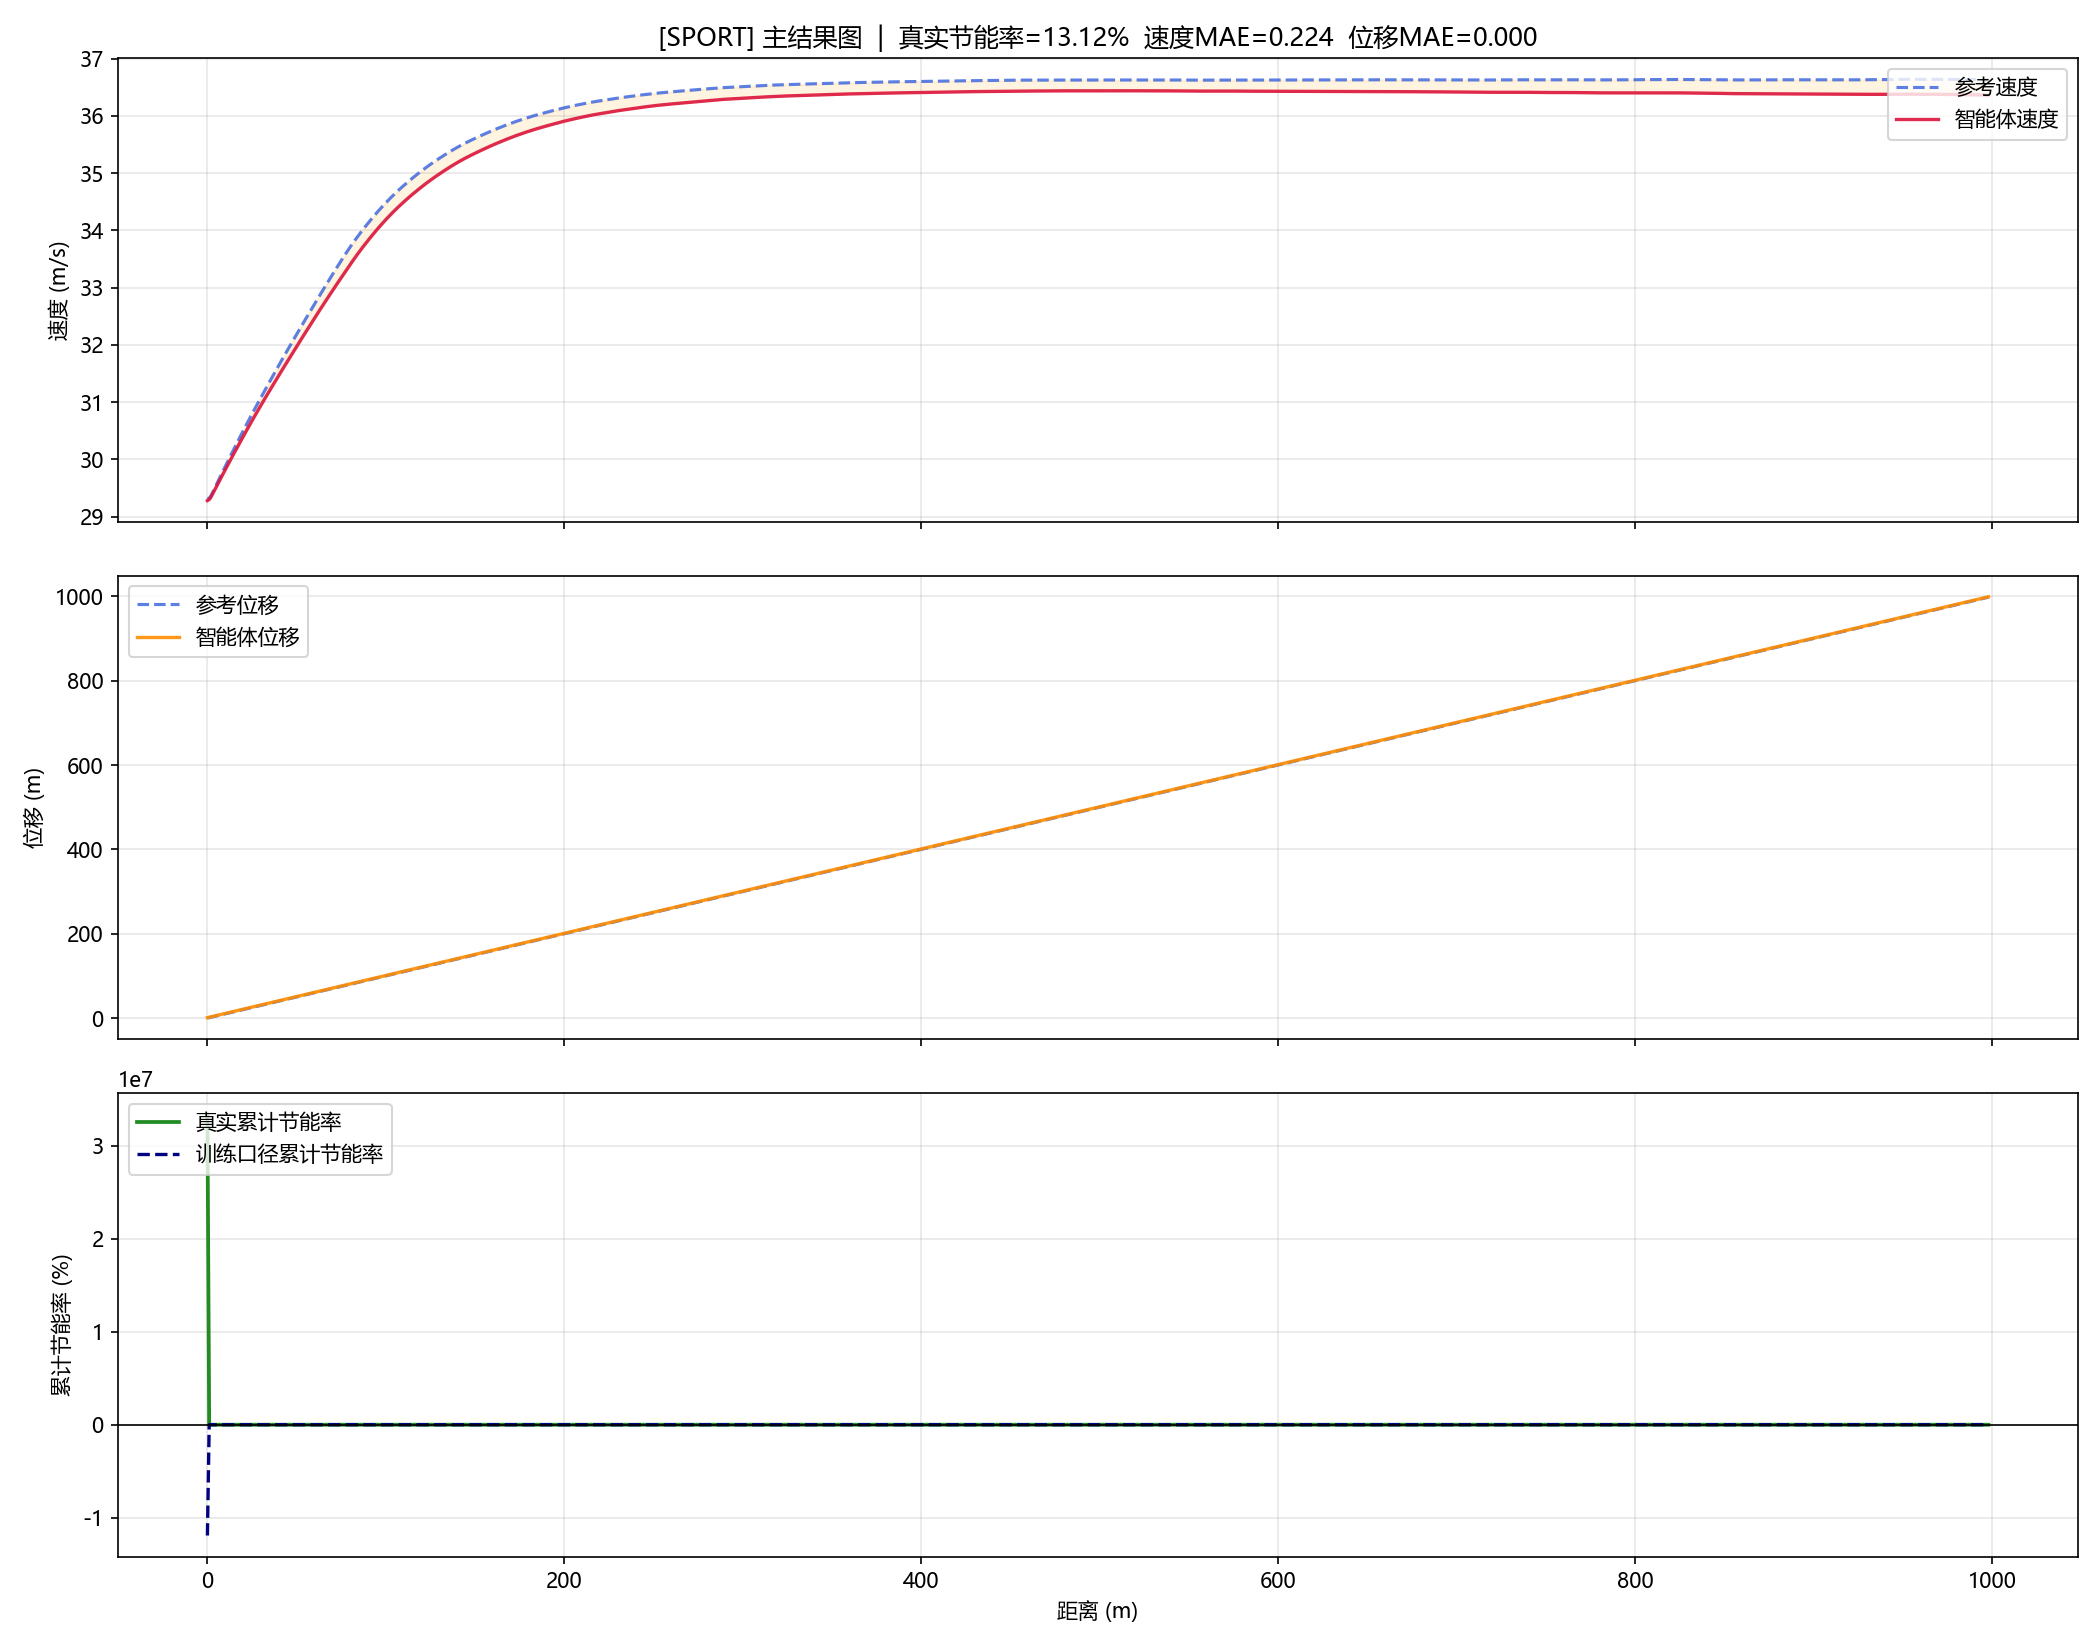
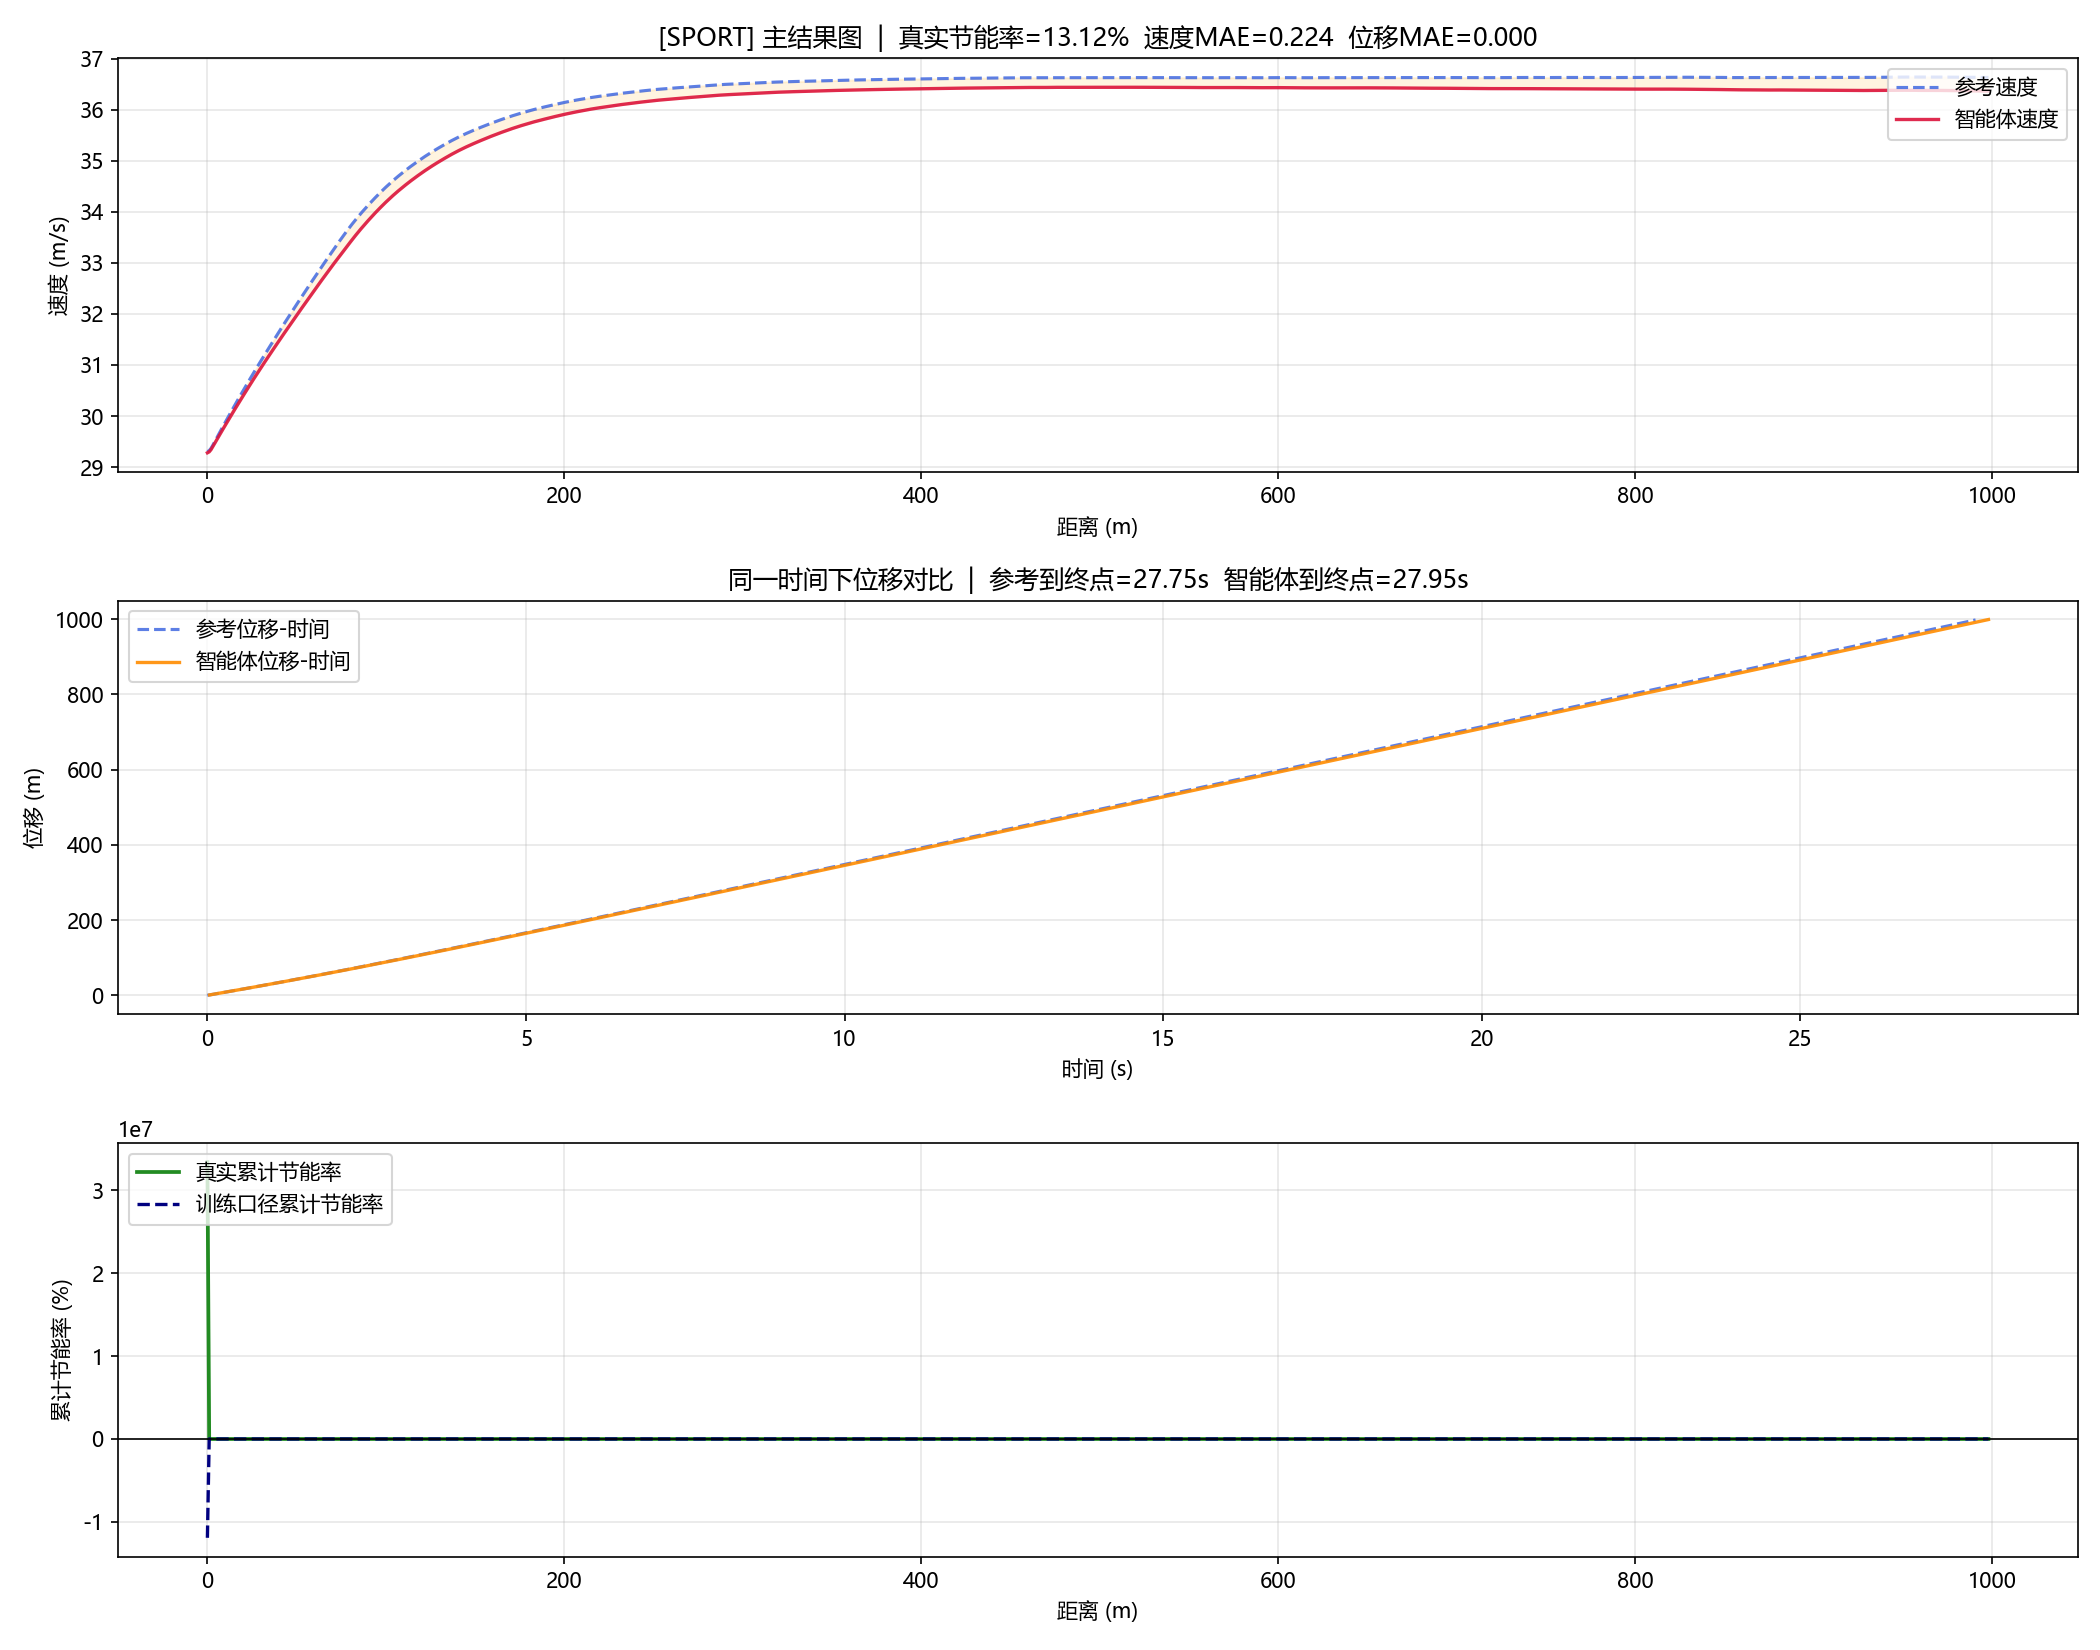
产生节能以及图像推送掉

diff --git a/motor_plotting.py b/motor_plotting.py
@@ -114,7 +114,7 @@ def _save_json(path: str, payload: dict) -> None:
 def plot_tracking_and_energy(infos: List[dict], metrics: dict, ref: dict,
                              style: str, save_dir: str):
     """
-    绘制主图：速度跟踪、位移跟踪、累计节能率
+    绘制主图：速度跟踪、同一时间下的位移、累计节能率
     """
     agent_speed = _extract_series(infos, "speed")
     ref_speed = _extract_series(infos, "ref_speed")
@@ -122,6 +122,10 @@ def plot_tracking_and_energy(infos: List[dict], metrics: dict, ref: dict,
     if len(agent_dist) == 0 or not np.any(agent_dist):
         agent_dist = np.arange(len(agent_speed))
     ref_dist = ref["ref_dist"][:len(agent_speed)]
+    agent_time = _extract_series(infos, "total_time_agent")
+    if len(agent_time) == 0 or not np.any(agent_time):
+        agent_time = np.arange(len(agent_dist), dtype=float)
+    ref_time = ref.get("ref_time", np.arange(len(ref_dist), dtype=float))[:len(agent_dist)]
     agent_energy = _extract_series(infos, "energy_step")
     ref_energy = ref["ref_energy_per_ds"][:len(agent_energy)]
     reward_basis = _extract_series(infos, "cmp_energy_step")
@@ -130,7 +134,7 @@ def plot_tracking_and_energy(infos: List[dict], metrics: dict, ref: dict,
     ref_reward = ref.get("ref_cmp_energy_per_ds", ref_energy)[:len(agent_energy)]
     x_axis = ref_dist if len(ref_dist) == len(agent_speed) else np.arange(len(agent_speed))
 
-    fig, axes = plt.subplots(3, 1, figsize=(14, 11), sharex=True)
+    fig, axes = plt.subplots(3, 1, figsize=(14, 11), sharex=False)
 
     # --- 速度跟踪 ---
     ax = axes[0]
@@ -144,13 +148,17 @@ def plot_tracking_and_energy(infos: List[dict], metrics: dict, ref: dict,
     )
     ax.legend(loc="upper right")
     ax.grid(True, alpha=0.3)
+    ax.set_xlabel("距离 (m)")
 
-    # --- 位移跟踪 ---
+    # --- 同一时间下的位移 ---
     ax = axes[1]
-    ax.plot(x_axis, ref_dist, color='royalblue', linestyle='--', alpha=0.85, linewidth=1.5, label='参考位移')
-    ax.plot(x_axis, agent_dist[:len(x_axis)], color='darkorange', alpha=0.9, linewidth=1.6, label='智能体位移')
-    ax.fill_between(x_axis, ref_dist, agent_dist[:len(x_axis)], alpha=0.10, color='goldenrod')
+    ax.plot(ref_time, ref_dist[:len(ref_time)], color='royalblue', linestyle='--', alpha=0.85, linewidth=1.5, label='参考位移-时间')
+    ax.plot(agent_time[:len(agent_dist)], agent_dist, color='darkorange', alpha=0.9, linewidth=1.6, label='智能体位移-时间')
     ax.set_ylabel("位移 (m)")
+    ax.set_xlabel("时间 (s)")
+    ref_end_time = float(ref_time[min(len(ref_time) - 1, len(ref_dist) - 1)]) if len(ref_time) > 0 else 0.0
+    agent_end_time = float(agent_time[len(agent_dist) - 1]) if len(agent_time) > 0 else 0.0
+    ax.set_title(f"同一时间下位移对比  |  参考到终点={ref_end_time:.2f}s  智能体到终点={agent_end_time:.2f}s")
     ax.legend(loc="upper left")
     ax.grid(True, alpha=0.3)
 
@@ -412,17 +420,30 @@ def plot_traction_regen_diagnostics(infos: List[dict], ref: dict, style: str, sa
 
     x = np.arange(len(labels))
     width = 0.35
-    fig, ax = plt.subplots(figsize=(10, 5))
+    fig, axes = plt.subplots(2, 1, figsize=(11, 6), sharex=True)
+
+    ax = axes[0]
     ax.bar(x - width / 2, saving_real, width=width, color="forestgreen", alpha=0.75, label="真实节能率")
     ax.bar(x + width / 2, saving_reward, width=width, color="royalblue", alpha=0.75, label="训练口径节能率")
-    for idx, count in enumerate(counts):
-        ax.text(x[idx], max(saving_real[idx], saving_reward[idx], 0.0) + 1.0, f"n={count}", ha="center", fontsize=9)
     ax.axhline(0, color="black", linewidth=0.8)
-    ax.set_xticks(x, labels)
+    y_min = min(min(saving_real), min(saving_reward), 0.0)
+    y_max = max(max(saving_real), max(saving_reward), 0.0)
+    pad = max((y_max - y_min) * 0.18, 1.0)
+    ax.set_ylim(y_min - pad, y_max + pad)
     ax.set_ylabel("节能率 (%)")
     ax.set_title(f"[{style.upper()}] 诊断1：牵引/回收分段")
-    ax.legend()
+    ax.legend(loc="upper right")
     ax.grid(True, axis="y", alpha=0.3)
+
+    ax = axes[1]
+    ax.bar(x, counts, color="slateblue", alpha=0.75, width=0.45)
+    for idx, count in enumerate(counts):
+        ax.text(x[idx], count + max(counts) * 0.03 + 1e-6, f"n={count}", ha="center", va="bottom", fontsize=9)
+    ax.set_ylabel("步数")
+    ax.set_xticks(x, labels)
+    ax.set_xlabel("分段类型")
+    ax.grid(True, axis="y", alpha=0.3)
+
     plt.tight_layout()
     plt.savefig(os.path.join(save_dir, f"diagnostic_traction_regen_{style}.png"), dpi=150)
     plt.close(fig)
@@ -543,7 +564,7 @@ def plot_route_segment_diagnostics(infos: List[dict], ref: dict, style: str, sav
 # ============================================================
 #  诊断 5：工作点命中热图
 # ============================================================
-def plot_operating_point_heatmap(infos: List[dict], ref: dict, style: str, save_dir: str) -> dict:
+def plot_operating_point_heatmap(infos: List[dict], ref: dict, style: str, save_dir: str, eff_map: Optional[dict] = None) -> dict:
     agent_torque = _extract_series(infos, "motor_torque")
     agent_rpm = _extract_series(infos, "motor_rpm")
     ref_speed = ref["ref_speed"][:len(infos)]
@@ -557,17 +578,44 @@ def plot_operating_point_heatmap(infos: List[dict], ref: dict, style: str, save_
     torque_bins = np.linspace(torque_min, torque_max, 41)
     rpm_bins = np.linspace(rpm_min, rpm_max, 41)
 
-    fig, axes = plt.subplots(1, 2, figsize=(13, 5), sharey=True)
-    h_ref, _, _, im0 = axes[0].hist2d(ref_rpm, ref_torque, bins=[rpm_bins, torque_bins], cmap="Blues")
-    axes[0].set_title("参考工作点命中")
-    axes[0].set_xlabel("转速 (rpm)")
-    axes[0].set_ylabel("扭矩 (Nm)")
-    h_agent, _, _, im1 = axes[1].hist2d(agent_rpm, agent_torque, bins=[rpm_bins, torque_bins], cmap="Reds")
-    axes[1].set_title("智能体工作点命中")
-    axes[1].set_xlabel("转速 (rpm)")
-    fig.colorbar(im0, ax=axes[0], shrink=0.85)
-    fig.colorbar(im1, ax=axes[1], shrink=0.85)
-    fig.suptitle(f"[{style.upper()}] 诊断4：工作点命中热图")
+    fig, ax = plt.subplots(1, 1, figsize=(11, 7))
+    ax.set_facecolor('#E0E0E0')  # 灰色背景代表电机无数据的非物理工作区域(图中空白缺口)
+    
+    # 绘制满底色的效率图
+    heatmap_im = None
+    if eff_map is not None:
+        X, Y = np.meshgrid(eff_map["speeds"], eff_map["torques"])
+        Z = eff_map["eff"] * 100.0
+        levels = np.linspace(72, 96, 25)
+        heatmap_im = ax.contourf(X, Y, Z, levels=levels, cmap='viridis', alpha=0.9, zorder=0)
+        cs = ax.contour(X, Y, Z, levels=[75, 80, 85, 90, 93, 95], colors='white', alpha=0.5, linewidths=0.8, zorder=1)
+        ax.clabel(cs, inline=True, fontsize=8, fmt='%.0f%%')
+
+    # 用散点路径图叠加真实轨迹点迹 (双轨合并在一张图上)
+    ax.plot(ref_rpm, ref_torque, marker='s', color='#333333', alpha=0.45, markersize=3, linewidth=1.5, zorder=4, label='参考老司机轨迹 (Ref)')
+    ax.plot(agent_rpm, agent_torque, marker='o', color='white', markeredgecolor='red', alpha=0.8, markersize=4, linewidth=1.5, zorder=5, label='智能体轨迹 (Agent)')
+    
+    # 起终点标识
+    if len(ref_rpm) > 0:
+        ax.plot(ref_rpm[0], ref_torque[0], marker='^', color='cyan', markersize=9, markeredgecolor='black', zorder=6, label='起点')
+        ax.plot(ref_rpm[-1], ref_torque[-1], marker='*', color='gold', markersize=13, markeredgecolor='red', zorder=6, label='终点')
+
+    ax.set_title(f"[{style.upper()}] 主控工作点 vs 参考工作点 偏移对比图")
+    ax.set_xlabel("电机转速 (rpm)")
+    ax.set_ylabel("输出扭矩 (Nm)")
+    ax.legend(loc="best", fontsize=9, framealpha=0.9)
+    
+    # 给效率底图加上正常排版的全局颜色条
+    if heatmap_im is not None:
+        cbar = fig.colorbar(heatmap_im, ax=ax, shrink=0.9, pad=0.03)
+        cbar.set_label("电机效率 (%)")
+    
+    # 将视角动态框定在轨迹的附近，留出余量
+    pad_rpm = max((rpm_max - rpm_min) * 0.15, 1000)
+    pad_torque = max((torque_max - torque_min) * 0.15, 20)
+    ax.set_xlim(max(0, rpm_min - pad_rpm), rpm_max + pad_rpm)
+    ax.set_ylim(torque_min - pad_torque, torque_max + pad_torque)
+    
     plt.tight_layout()
     plt.savefig(os.path.join(save_dir, f"diagnostic_operating_points_{style}.png"), dpi=150)
     plt.close(fig)
@@ -688,7 +736,8 @@ def plot_all(eval_infos: List[dict],
              history: dict,
              style: str,
              save_dir: str,
-             window_size: int = 10):
+             window_size: int = 10,
+             eff_map: Optional[dict] = None):
     """
     一键生成全部绘图
     """
@@ -709,7 +758,7 @@ def plot_all(eval_infos: List[dict],
     diagnostics.update(plot_speed_bin_diagnostics(eval_infos, eval_ref, style, save_dir))
     diagnostics.update(plot_torque_bin_diagnostics(eval_infos, eval_ref, style, save_dir))
     diagnostics.update(plot_route_segment_diagnostics(eval_infos, eval_ref, style, save_dir))
-    diagnostics.update(plot_operating_point_heatmap(eval_infos, eval_ref, style, save_dir))
+    diagnostics.update(plot_operating_point_heatmap(eval_infos, eval_ref, style, save_dir, eff_map=eff_map))
     _save_json(os.path.join(save_dir, f"diagnostics_{style}.json"), diagnostics)
     plot_training_curves(history, style, save_dir)
 

diff --git a/motor_experiment.py b/motor_experiment.py
@@ -288,6 +288,7 @@ def run_single_seed(style: str,
         history=result["history"],
         style=style,
         save_dir=plot_dir,
+        eff_map=eff_map
     )
 
     return result
@@ -376,6 +377,7 @@ def run_full_experiment(styles: List[str] = ["normal"],
             history=best["history"],
             style=style,
             save_dir=plot_dir,
+            eff_map=eff_map,
         )
 
     # 汇总 json
